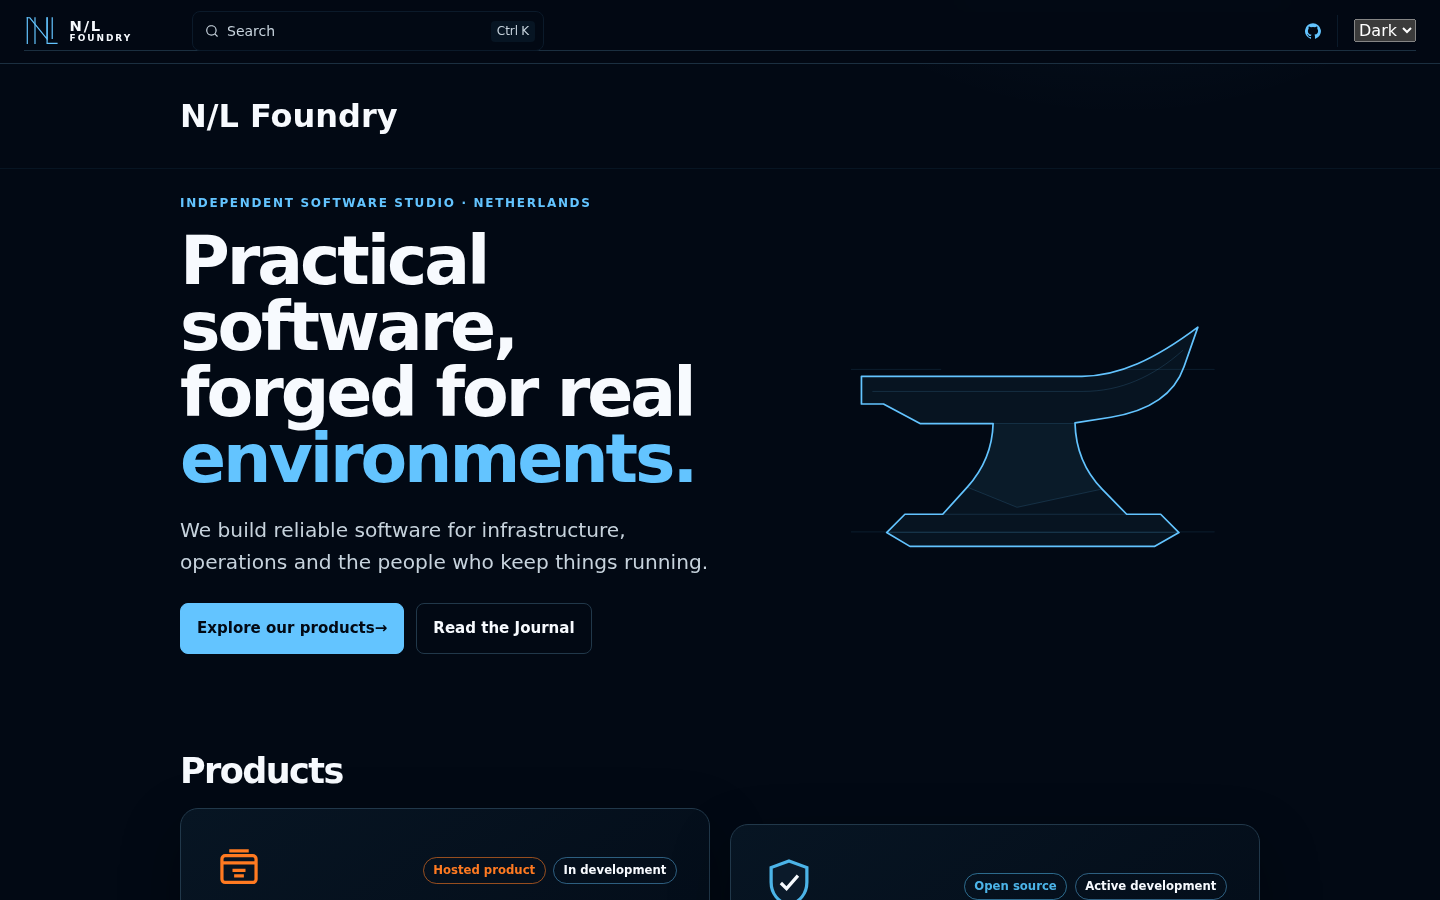
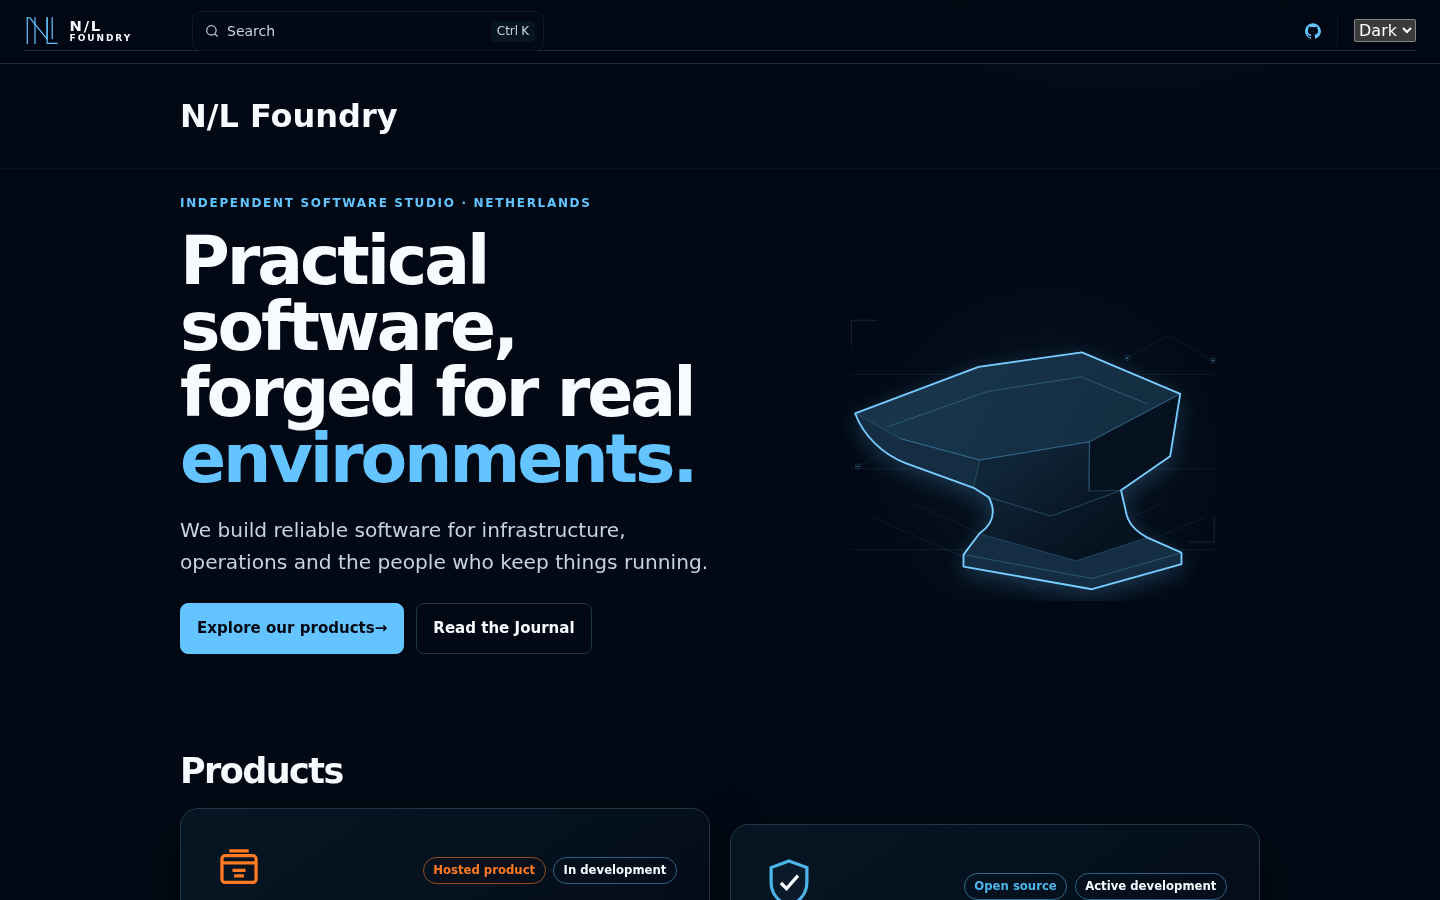
Restore technical depth to forge hero

Changed region(s): [[0.5938, 0.3733, 0.8438, 0.6844], [0.8125, 0.3733, 0.8438, 0.4044]]

diff --git a/src/styles/custom.css b/src/styles/custom.css
@@ -43,10 +43,15 @@
   --nlf-logo-foreground: var(--nl-night);
   --nlf-logo-accent: var(--nl-steel_2);
   --nlf-hero-line: var(--nl-steel_2);
-  --nlf-hero-line-muted: color-mix(in srgb, var(--nl-steel_2) 14%, transparent);
-  --nlf-hero-fill: color-mix(in srgb, var(--nl-electric_blue) 5%, transparent);
-  --nlf-hero-facet: color-mix(in srgb, var(--nl-steel_2) 3%, transparent);
-  --nlf-hero-shadow: color-mix(in srgb, var(--nl-steel_2) 10%, transparent);
+  --nlf-hero-line-soft: color-mix(in srgb, var(--nl-steel_2) 40%, transparent);
+  --nlf-hero-line-muted: color-mix(in srgb, var(--nl-steel_2) 13%, transparent);
+  --nlf-hero-plane-highlight: color-mix(in srgb, var(--nl-electric_blue) 12%, var(--nl-ice));
+  --nlf-hero-plane-top: color-mix(in srgb, var(--nl-electric_blue) 9%, var(--nl-ice));
+  --nlf-hero-plane-mid: color-mix(in srgb, var(--nl-electric_blue) 5%, var(--nl-ice));
+  --nlf-hero-plane-deep: color-mix(in srgb, var(--nl-steel_2) 3%, var(--nl-ice));
+  --nlf-hero-glow: color-mix(in srgb, var(--nl-electric_blue) 7%, transparent);
+  --nlf-hero-shadow: color-mix(in srgb, var(--nl-steel_2) 13%, transparent);
+  --nlf-hero-haze: color-mix(in srgb, var(--nl-electric_blue) 4%, transparent);
   --nlf-focus-ring: var(--nl-steel_2);
   color-scheme: light;
 }
@@ -305,6 +310,7 @@ h4,
   position: relative;
   aspect-ratio: 4 / 3;
   overflow: hidden;
+  background: radial-gradient(circle at 53% 58%, var(--nlf-hero-haze), transparent 62%);
 }
 
 .forge-visual__drawing {
@@ -314,37 +320,97 @@ h4,
   color: var(--nlf-hero-line);
 }
 
-.forge-visual__calibration,
-.forge-visual__contours {
+.forge-visual__construction,
+.forge-visual__corners,
+.forge-visual__network,
+.forge-visual__facets {
   fill: none;
-  stroke: var(--nlf-hero-line-muted);
   stroke-linecap: round;
   stroke-linejoin: round;
+  vector-effect: non-scaling-stroke;
 }
 
-.forge-visual__calibration {
+.forge-visual__construction,
+.forge-visual__corners,
+.forge-visual__network {
+  stroke: var(--nlf-hero-line-muted);
+  stroke-width: 0.85;
+}
+
+.forge-visual__corners {
   stroke-width: 1;
 }
 
-.forge-visual__shadow {
-  fill: var(--nlf-hero-shadow);
+.forge-visual__node-ring {
+  fill: var(--sl-color-bg);
+  stroke: var(--nlf-hero-line-soft);
 }
 
-.forge-visual__silhouette {
-  fill: var(--nlf-hero-fill);
-  stroke: var(--nlf-hero-line);
-  stroke-linecap: round;
-  stroke-linejoin: round;
-  stroke-width: 2.7;
-}
-
-.forge-visual__facet {
-  fill: var(--nlf-hero-facet);
+.forge-visual__node-core {
+  fill: var(--nlf-hero-line);
   stroke: none;
 }
 
-.forge-visual__contours {
-  stroke-width: 1.35;
+.forge-visual__ground {
+  fill: var(--nlf-hero-shadow);
+}
+
+.forge-visual__anvil {
+  filter: drop-shadow(0 10px 18px var(--nlf-hero-glow));
+}
+
+.forge-visual__plane {
+  stroke: var(--nlf-hero-line-muted);
+  stroke-linejoin: round;
+  stroke-width: 0.85;
+  vector-effect: non-scaling-stroke;
+}
+
+.forge-visual__plane--top {
+  fill: url('#nlf-forge-top');
+}
+
+.forge-visual__plane--side,
+.forge-visual__plane--base {
+  fill: var(--nlf-hero-plane-top);
+}
+
+.forge-visual__plane--core {
+  fill: url('#nlf-forge-core');
+}
+
+.forge-visual__plane--far {
+  fill: var(--nlf-hero-plane-deep);
+}
+
+.forge-visual__stop--highlight {
+  stop-color: var(--nlf-hero-plane-highlight);
+}
+
+.forge-visual__stop--top {
+  stop-color: var(--nlf-hero-plane-top);
+}
+
+.forge-visual__stop--mid {
+  stop-color: var(--nlf-hero-plane-mid);
+}
+
+.forge-visual__stop--deep {
+  stop-color: var(--nlf-hero-plane-deep);
+}
+
+.forge-visual__outline {
+  fill: none;
+  stroke: var(--nlf-hero-line);
+  stroke-linecap: round;
+  stroke-linejoin: round;
+  stroke-width: 1.85;
+  vector-effect: non-scaling-stroke;
+}
+
+.forge-visual__facets {
+  stroke: var(--nlf-hero-line-soft);
+  stroke-width: 1.05;
 }
 
 .project-grid,
@@ -1056,7 +1122,8 @@ button:focus-visible,
   }
 
   .forge-visual {
-    max-width: 44rem;
+    width: min(100%, 40rem);
+    margin-inline: auto;
   }
 
   .product-surface__visual {
@@ -1119,6 +1186,15 @@ button:focus-visible,
 @media (max-width: 420px) {
   .home-intro__title {
     font-size: clamp(2.35rem, 12vw, 3rem);
+  }
+
+  .forge-visual__chevron--outer,
+  .forge-visual__node--secondary {
+    display: none;
+  }
+
+  .forge-visual__corners {
+    opacity: 0.55;
   }
 
   .project-card__heading {

diff --git a/src/styles/tokens.css b/src/styles/tokens.css
@@ -32,11 +32,16 @@
   --nlf-focus-ring: var(--nl-electric_blue);
   --nlf-logo-foreground: var(--nl-ice);
   --nlf-logo-accent: var(--nl-electric_blue);
-  --nlf-hero-line: var(--nl-electric_blue);
-  --nlf-hero-line-muted: color-mix(in srgb, var(--nl-electric_blue) 18%, transparent);
-  --nlf-hero-fill: color-mix(in srgb, var(--nl-electric_blue) 6%, transparent);
-  --nlf-hero-facet: color-mix(in srgb, var(--nl-electric_blue) 4%, transparent);
-  --nlf-hero-shadow: color-mix(in srgb, var(--nl-electric_blue) 16%, transparent);
+  --nlf-hero-line: color-mix(in srgb, var(--nl-electric_blue) 86%, var(--nl-ice));
+  --nlf-hero-line-soft: color-mix(in srgb, var(--nl-electric_blue) 42%, transparent);
+  --nlf-hero-line-muted: color-mix(in srgb, var(--nl-electric_blue) 17%, transparent);
+  --nlf-hero-plane-highlight: color-mix(in srgb, var(--nl-electric_blue) 18%, var(--nl-night_2));
+  --nlf-hero-plane-top: color-mix(in srgb, var(--nl-electric_blue) 14%, var(--nl-night_2));
+  --nlf-hero-plane-mid: color-mix(in srgb, var(--nl-electric_blue) 9%, var(--nl-night_2));
+  --nlf-hero-plane-deep: color-mix(in srgb, var(--nl-electric_blue) 5%, var(--nl-night));
+  --nlf-hero-glow: color-mix(in srgb, var(--nl-electric_blue) 23%, transparent);
+  --nlf-hero-shadow: rgb(0 0 0 / 0.3);
+  --nlf-hero-haze: color-mix(in srgb, var(--nl-electric_blue) 6%, transparent);
   --nlf-shadow-panel: 0 22px 60px rgb(0 0 0 / 0.32);
   --nlf-radius-sm: 0.5rem;
   --nlf-radius-md: 0.75rem;

diff --git a/BRAND_GUIDE.md b/BRAND_GUIDE.md
@@ -75,7 +75,7 @@ Panels use dark layered surfaces, thin steel borders, restrained glow and large 
 Homepage pattern:
 
 - Hero uses left-aligned statement and right-side technical illustration.
-- `src/components/ForgeHero.astro` is the live, vector-first homepage forge illustration. Its custom anvil silhouette, restrained facet accents, sparse construction lines and grounded shadow are inline so the active Starlight theme can style them through semantic tokens. It contains no internal logo and remains subordinate to the homepage statement. The older public SVG and raster fallback remain reference assets only and are not rendered by the homepage.
+- `src/components/ForgeHero.astro` is the live, vector-first homepage forge illustration. Its five-plane isometric anvil, restrained facet engraving, sparse construction lines, nodes and grounded shadow are inline so the active Starlight theme can style them through semantic tokens. It contains no internal logo and remains subordinate to the homepage statement. The older public SVG and raster fallback remain reference assets only and are not rendered by the homepage.
 - Product cards should be separated by sufficient spacing and support mobile stacking.
 - Footer includes products, engineering, journal, about, privacy/AI transparency, GitHub, and copyright.
 - No screenshot mockups are used; composition is structural and native in the DOM.
